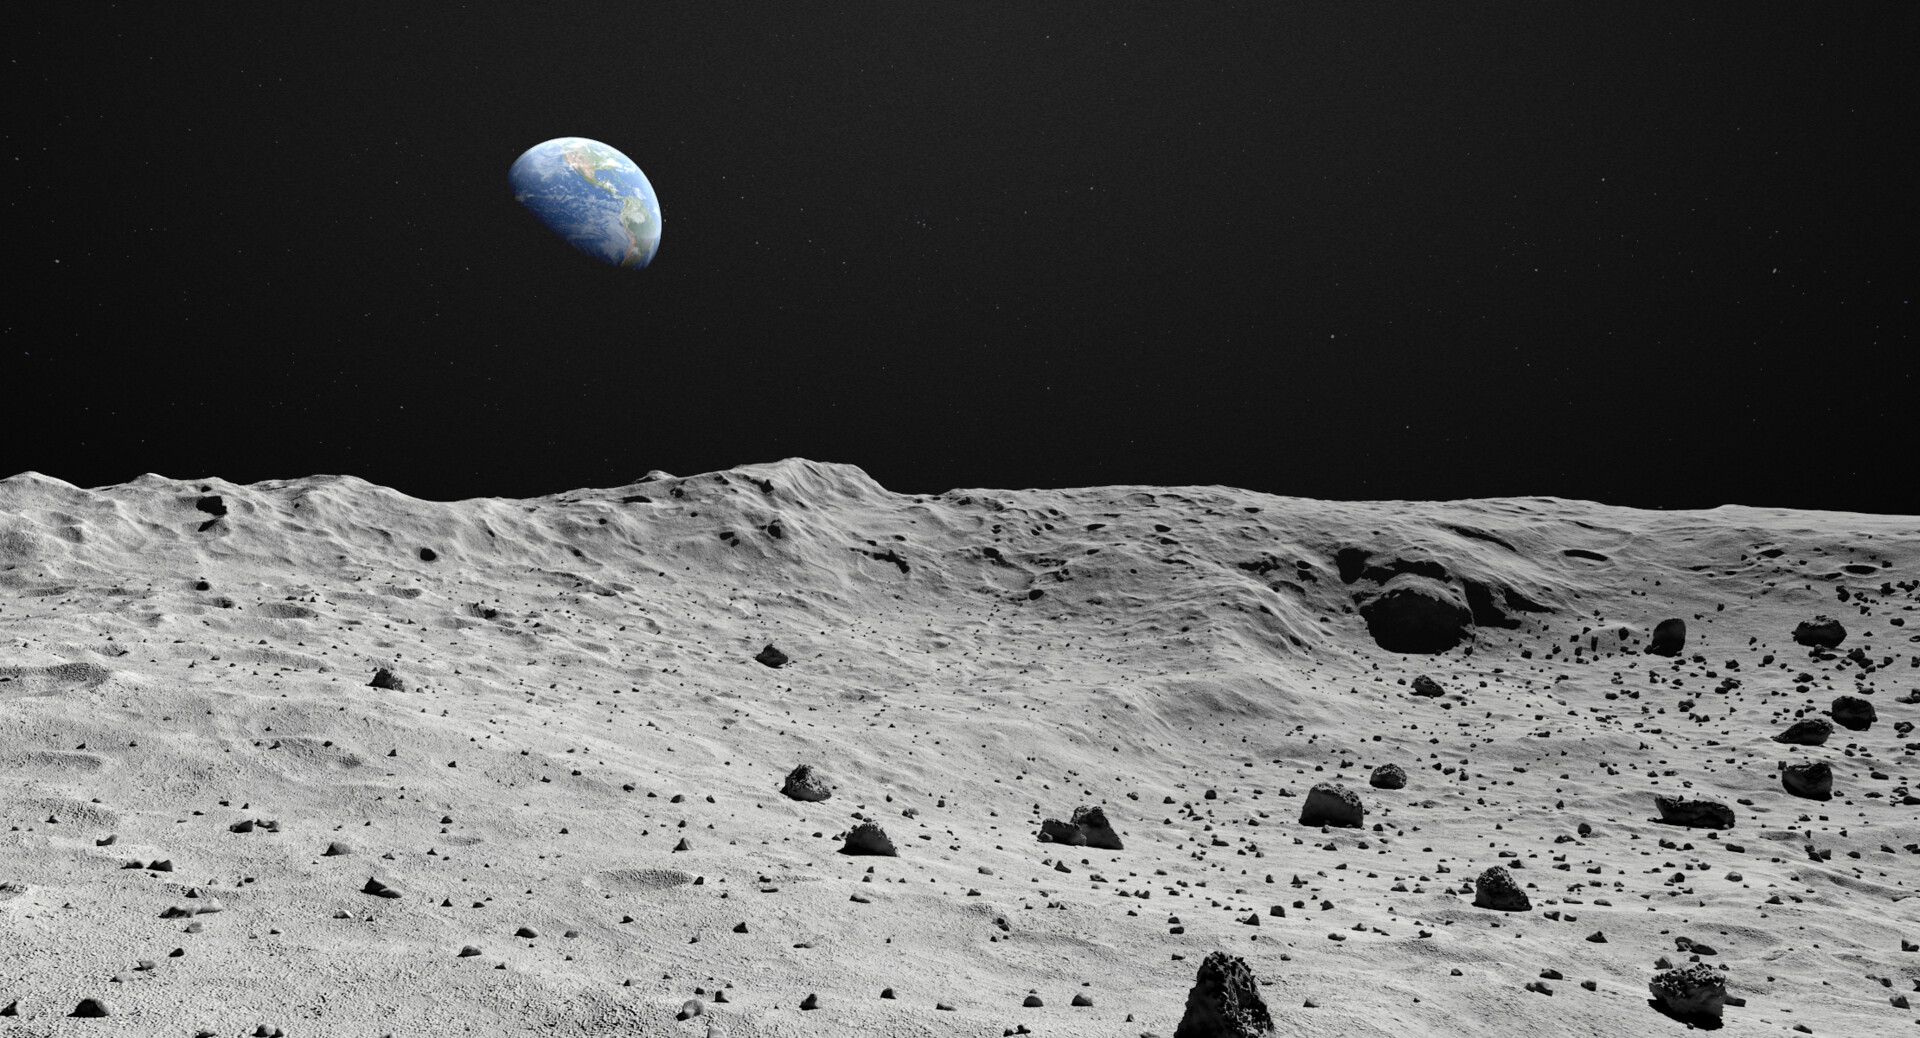
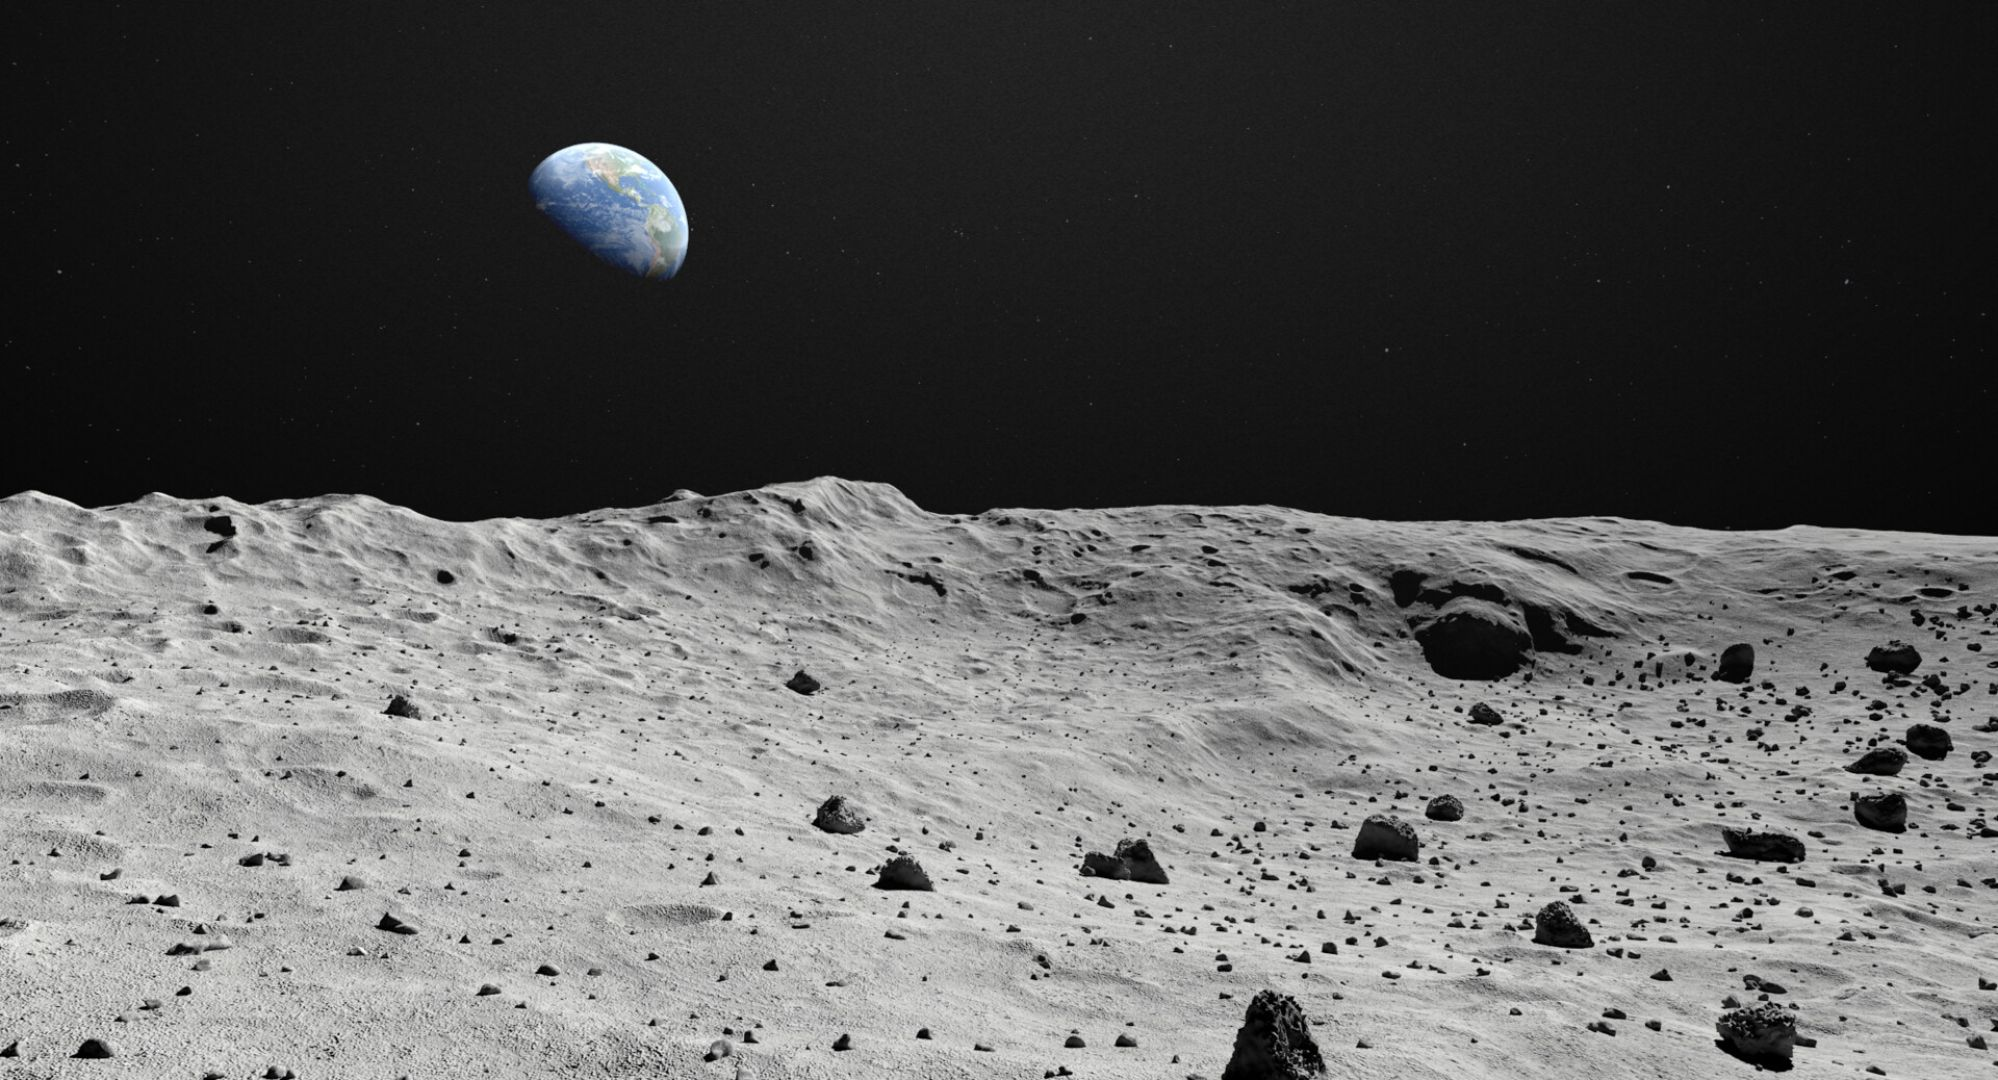
resized background image

Changed region(s): [[0.2812, 0.9557, 0.3438, 1.0], [0.0, 0.9865, 0.0312, 1.0]]

diff --git a/index.html b/index.html
@@ -1,1 +1,170 @@
[1 lines of base64/hex data omitted]
+<!DOCTYPE html>
+<html lang="en" ID="HTML">
+
+<head>
+    <meta charset="UTF-8" />
+    <meta name="viewport" content="width=device-width, initial-scale=1.0" />
+    <meta name="Piotr Maksymiuk Portfolio" description="Piotr Maksymiuk Portfolio" />
+    <meta http-equiv="X-UA-Compatible" content="ie=edge" />
+    <link rel="stylesheet" href="./styles/style.css" />
+    <link rel="icon" href="./project_images/foto1.png" />
+    <script src="./scripts/jquery.js"></script>
+    <script src="./scripts/main.js" defer="defer"></script>
+    <link rel="preload" href="styles/noto/noto.woff" as="font" crossorigin="anonymous" />
+    <link rel="preload" href="styles/oregano/oregano-regularitalic-webfont.woff2" as="font" crossorigin="anonymous" />
+    <script src="https://cdnjs.cloudflare.com/ajax/libs/granim/2.0.0/granim.min.js" defer="defer"></script>
+    <script src="./scripts/modernizr-custom.js" defer="defer"></script>
+    <link rel="preload" as="image"
+        href="https://raw.githubusercontent.com/Kiszuriwalilibori/portfolio_granim/master/project_images/moon.jpg" />
+    <title>Piotr Maksymiuk portfolio</title>
+</head>
+<canvas ID="canvas"></canvas>
+
+<body>
+    
+    <!-- <div class="ufo"></div> -->
+    <div id="loader-wrapper">
+        <div class="load">
+            <hr>
+            <hr>
+            <hr>
+            <hr>
+        </div>
+    </div>
+    <nav>
+        <article id="home"><a href="#Home"> home </a></article>
+        <article id="name"><a href="#About"> Piotr Maksymiuk </a></article>
+        <article id="skills"><a href="#Skills">skills</a></article>
+        <article id="projects"><a href="#Projects">projects</a></article>
+    </nav>
+    <main>
+        <div class="home-page r-gr" ID="Projects">
+            <div class="overlay frame" style="visibility: hidden;"><img src="blank_overlay.gif" alt="" /></div>
+            <div class="description"></div>
+            <div class="projects-container"><a class="hovercontroll"
+                    href="https://kiszuriwalilibori.github.io/Fizjoterapia/" data-overlay="project_images/fizjo.jpg"
+                    data-offset="50px"
+                    data-description="SPA - wizytówka fikcyjnego gabinetu odnowy biologicznej. Technologie: GSAP, JS, JQuery, HTML, SCSS"
+                    target="_blank" rel="noopener">Physioterapy</a><br /><a class="hovercontroll"
+                    href="https://kiszuriwalilibori.github.io/JSBN/" data-overlay="project_images/JSBooks.jpg"
+                    data-offset="50px"
+                    data-description="MVC w czystym, obiektowym JS, 0 bibliotek. Skądinąd praca kwalifikacyjna stąd czasami zasakakujący wygląd. Technologie: JS, HTML, SCSS"
+                    target="_blank" rel="noopener">JS Books</a><br /><a class="hovercontroll"
+                    href="https://kiszuriwalilibori.github.io/crypto_redux_router/"
+                    data-overlay="project_images/Cryptos.jpg" data-offset="50px"
+                    data-description="Tracker kryptowalut, odświeża dane co 5s. Technologie: React, Router, Redux, Material UI, Styled Components, Axios"
+                    target="_blank" rel="noopener">CryptoCurrency tracker</a><br /><a class="hovercontroll"
+                    href="https://kiszuriwalilibori.github.io/google_books_router_redux/"
+                    data-overlay="project_images/googlebooksfinder.jpg" data-offset="50px"
+                    data-description="Aplikacja umożliwia wyszukiwanie książek w zasobach Google Books a także sortowanie i filtrowanie wyników. Wykorzystano Google Books API. Technologie:  Router, Redux, React, Material UI"
+                    target="_blank" rel="noopener">Google Books Finder</a><br /><a class="hovercontroll"
+                    href="https://kiszuriwalilibori.github.io/AboutMe/" data-overlay="project_images/aboutme.jpg"
+                    data-offset="50px" data-description="Stara wersja strony domowej. Technologie: JS, HTML, SCSS, PUG"
+                    target="_blank" rel="noopener">AboutMe - archive</a><br /><a class="hovercontroll"
+                    href="https://kiszuriwalilibori.github.io/Athletes/"
+                    data-overlay="project_images/hiddenpotential.jpg" data-offset="50px"
+                    data-description="Aplikacja sczytuje dane słynnych sportowców i analizuje ich ukryty potencjał, co prowadzi do nieoczekiwanych konkluzji. Technologie: REACT, JS, HTML, SCSS "
+                    target="_blank" rel="noopener">Athletes</a><br /><a class="hovercontroll"
+                    href="https://kiszuriwalilibori.github.io/unamo_redux/" data-overlay="project_images/unamo.jpg"
+                    data-offset="50px"
+                    data-description="Tabela pobierająca dane z zewnętrznego źródła, umożliwia sortowanie oraz dodawanie /odejmowanie rekordów wraz z ich walidacją. Technologie: Redux, Thunk,REACT, JS"
+                    target="_blank" rel="noopener">Unamo</a><br /><a class="hovercontroll"
+                    href="https://kiszuriwalilibori.github.io/hype4mobile/" data-overlay="project_images/hype.jpg"
+                    data-offset="50px"
+                    data-description="Prosty interfejs wspierający drzewo kryteriów. Technologie: Redux, React, Material UI"
+                    target="_blank" rel="noopener">Drzewo</a><br /><a class="hovercontroll"
+                    href="https://kiszuriwalilibori.github.io/abmn/" data-overlay="project_images/abmn.jpg"
+                    data-offset="50px" data-description="Stara wersja strony domowej. Technologie: HTML, SCCC, JS"
+                    target="_blank" rel="noopener">About Me Latest</a><br /></div>
+        </div>
+        <div class="about" id="About">
+            <div class="column r-gr">
+                <h3>About</h3>
+                <p>I'm Piotr Maksymiuk. Web developer. Originally from Poland, based in Warsaw, Poland. Some time ago I
+                    have decided to totally redirect my proffessional path. And it is in progress.</p>
+                <p>Currently I do not perform any jobs related to web mastering on regular basis. Yes, sometimes I get a
+                    task of preparing a part of page but that is nothing steady. I am seriously interested in joining IT
+                    company for day-to-day employment.</p>
+                <p>As per formal education I am chemical engineer, graduated at Warsaw Technical University in 1987.
+                    Afterwards I have worked for few distributing companies (usually distributor of plastic granulates -
+                    basic form for proccessing. That is branch and business I do know well. However, beacuase of many
+                    reasons (no need to describe that here in details) the decision of switching to IT is undertaken.
+                </p>
+            </div>
+            <div class="column l-gr">
+                <h3>Contact</h3>
+                <p>Don't you think we can make a great collabo? If so, do not hesitate. Or just say 'Hello handsome...'
+                    and<a href="mailto:piotrmaksymiuk@yahoo.com.com">let's chat</a></p>
+                <p>I am keen to start new cooperation or biz if it looks good, no problem with even most zappy projects
+                </p>
+                <p>Basically I answer emails the same or next day, with fb it's not that good, I do not visit it that
+                    often. </p>
+                <p class="h-center">You can find me on:</p>
+                <p class="h-center"><a href="https://www.facebook.com/piotr.maksymiuk.940">facebook</a></p>
+                <p class="h-center"><a href="mailto:piotrmaksymiuk@yahoo.com.com">mail</a></p>
+                <p class="h-center"><a href="https://github.com/Kiszuriwalilibori">Git Hub </a></p>
+            </div>
+        </div>
+        <div class="about" id="Skills">
+            <div class="column full-column">
+                <h3>Skills</h3>
+                <ul>
+                    <li class="skill_r-gr">
+                        <p class="right">Feel good with it.</p>
+                        <div class="skills left"><img class="skills_material" alt=""
[1 lines of base64/hex data omitted]
+                                class="skills_css" alt=""
[1 lines of base64/hex data omitted]
+                                class="skills_html5" alt=""
[1 lines of base64/hex data omitted]
+                                class="skills_jquery" alt=""
[1 lines of base64/hex data omitted]
+                                class="skills_js" alt=""
[1 lines of base64/hex data omitted]
+                                class="skills_react" alt=""
[1 lines of base64/hex data omitted]
+                                class="skills_redux" alt=""
[1 lines of base64/hex data omitted]
+                                class="skills_router" alt=""
[1 lines of base64/hex data omitted]
+                                class="skills_sass" alt=""
[1 lines of base64/hex data omitted]
+                        </div>
+                    </li>
+                    <li class="skill_l-gr">
+                        <p class="right">Yes, I know and apply. However do not feel really proficient yet.</p>
+                        <div class="skills left"><img class="skills_linux" alt=""
[1 lines of base64/hex data omitted]
+                                class="skills_bootstrap" alt=""
[1 lines of base64/hex data omitted]
+                                class="skills_styled" alt=""
[1 lines of base64/hex data omitted]
+                                class="skills_pug" alt=""
[1 lines of base64/hex data omitted]
+                                class="skills_redux" alt=""
[1 lines of base64/hex data omitted]
+                        </div>
+                    </li>
+                    <li class="skill_r-gr">
+                        <p class="right">Learning currently</p>
+                        <div class="skills left"><img class="skills_mysql" alt=""
[1 lines of base64/hex data omitted]
+                                class="skills_php" alt=""
[1 lines of base64/hex data omitted]
+                        </div>
+                    </li>
+                </ul>
+            </div>
+        </div>
+        <div class="home r-gr" id="Home">
+            <div class="author-foto"></div>
+            <p class="left">Piotr Maksymiuk</p>
+            <p class="right">Web-Developer</p>
+        </div>
+    </main>
+    <footer id="footer"><a class="facebook" id="facebook"
+            href="https://www.facebook.com/piotr.maksymiuk.940">facebook</a><a class="github" id="github"
+            href="https://github.com/Kiszuriwalilibori">github</a></footer>
+</body>
+
+</html>

diff --git a/styles/style.scss b/styles/style.scss
@@ -3,7 +3,6 @@
 @import './noto/noto';
 @import './loader';
 
-
 /* ================================== GENERAL ====================================== */
 
 
@@ -122,8 +121,12 @@ li :first-child{ font-size: 1.5rem;@include mobile{font-size: 16px;}}
   opacity: 0;
 }
 
+.overlay img{@include mobile {
+  width: 100%;}}
+
 .description {
   visibility: hidden;
+  padding: 0 2% 0 2%;
   position: fixed;
   width: 30vw;
   opacity: 0;
@@ -134,13 +137,17 @@ li :first-child{ font-size: 1.5rem;@include mobile{font-size: 16px;}}
   font-size:2rem;
   text-align: center;
   pointer-events: none;
+  border:2px solid gold;
 
 @include mobile {z-index: 1000;
   top:0;
   right:0;
   width:100%;
   height:62.5vw;
+  font-size: 4vw;
   display:flex;
+  border: none;
+  background-color:rgba(125, 125, 125, 0.8);
   justify-content:center;
   align-items:center;}
 
@@ -153,8 +160,6 @@ li :first-child{ font-size: 1.5rem;@include mobile{font-size: 16px;}}
   .description.description-hidden{
     opacity: 0;
   }
-
-
 
 .frame {
   
@@ -239,6 +244,10 @@ color: #fff;
   min-height: 100vh;
   @include mobile
   {font-size: calc(2vw + 3vh);
+    margin: 0 0 0 50px;
+    padding: 0 0 5px 0;
+    width: calc(100% - 50px);
+    border-width: unset;
     line-height: 1.3; }
 }
 
@@ -280,7 +289,7 @@ footer a:hover {
 }
 
 .projects-container{
-  @include mobile{padding-top: 62.5vw;}
+  @include mobile{padding-top: 62.5vw;padding-left: 2%;}
 }
 
 #About,#Projects{
@@ -310,7 +319,7 @@ footer a:hover {
   padding: 1vh 10px 5px 150px;
  	border-width: 100px;
   font-weight: 100;
-  @include mobile { padding-left: 50px;}
+  @include mobile { padding-left: calc(50px + 2%); padding-right: 2%;}
 }
 
 .lgrad{background-image: linear-gradient(to left,$gr1, $gr2);}

diff --git a/styles/style.css b/styles/style.css
@@ -287,8 +287,15 @@ li :first-child {
   opacity: 0;
 }
 
+@media (max-width: 775px) {
+  .overlay img {
+    width: 100%;
+  }
+}
+
 .description {
   visibility: hidden;
+  padding: 0 2% 0 2%;
   position: fixed;
   width: 30vw;
   opacity: 0;
@@ -300,6 +307,7 @@ li :first-child {
   font-size: 2rem;
   text-align: center;
   pointer-events: none;
+  border: 2px solid gold;
 }
 
 @media (max-width: 775px) {
@@ -309,9 +317,12 @@ li :first-child {
     right: 0;
     width: 100%;
     height: 62.5vw;
+    font-size: 4vw;
     display: -webkit-box;
     display: -ms-flexbox;
     display: flex;
+    border: none;
+    background-color: rgba(125, 125, 125, 0.8);
     -webkit-box-pack: center;
         -ms-flex-pack: center;
             justify-content: center;
@@ -426,6 +437,10 @@ nav article a {
 @media (max-width: 775px) {
   .home-page {
     font-size: calc(2vw + 3vh);
+    margin: 0 0 0 50px;
+    padding: 0 0 5px 0;
+    width: calc(100% - 50px);
+    border-width: unset;
     line-height: 1.3;
   }
 }
@@ -476,6 +491,7 @@ footer a:hover {
 @media (max-width: 775px) {
   .projects-container {
     padding-top: 62.5vw;
+    padding-left: 2%;
   }
 }
 
@@ -529,7 +545,8 @@ footer a:hover {
 
 @media (max-width: 775px) {
   .about p {
-    padding-left: 50px;
+    padding-left: calc(50px + 2%);
+    padding-right: 2%;
   }
 }
 

diff --git a/scripts/main.js b/scripts/main.js
@@ -124,31 +124,29 @@ x.remove();})
 //żeby ta animka dobrze działała trza by wziąć oba elementy poza footer absolutnie animka sprawi że linki będą latać po ekranie
 
 
-$(document).ready(function(){
-  console.log('script');
+// $(document).ready(function(){
+//   console.log('script');
  
-  animateDiv('.ufo');
+//   animateDiv('.ufo');
   
-});
+// });
 
-function makeNewPosition(){
+// function makeNewPosition(){
   
-  // Get viewport dimensions (remove the dimension of the div)
-  var h = $(window).height() - 50;
-  var w = $(window).width() - 50;
+//   var h = $(window).height() - 50;
+//   var w = $(window).width() - 50;
   
-  var nh = Math.floor(Math.random() * h);
-  var nw = Math.floor(Math.random() * w);
+//   var nh = Math.floor(Math.random() * h);
+//   var nw = Math.floor(Math.random() * w);
   
-  return [nh,nw];    
+//   return [nh,nw];    
   
-}
+// }
 
-function animateDiv(myclass){
-  var newq = makeNewPosition();
-  console.log('myclass',myclass);
-  $(myclass).animate({ top: newq[0], left: newq[1] }, 10000,   function(){
-    animateDiv(myclass);        
-  });
+// function animateDiv(myclass){
+//   var newq = makeNewPosition();
+//   $(myclass).animate({ top: newq[0], left: newq[1] }, 10000,   function(){
+//     animateDiv(myclass);        
+//   });
   
-};
+// };
